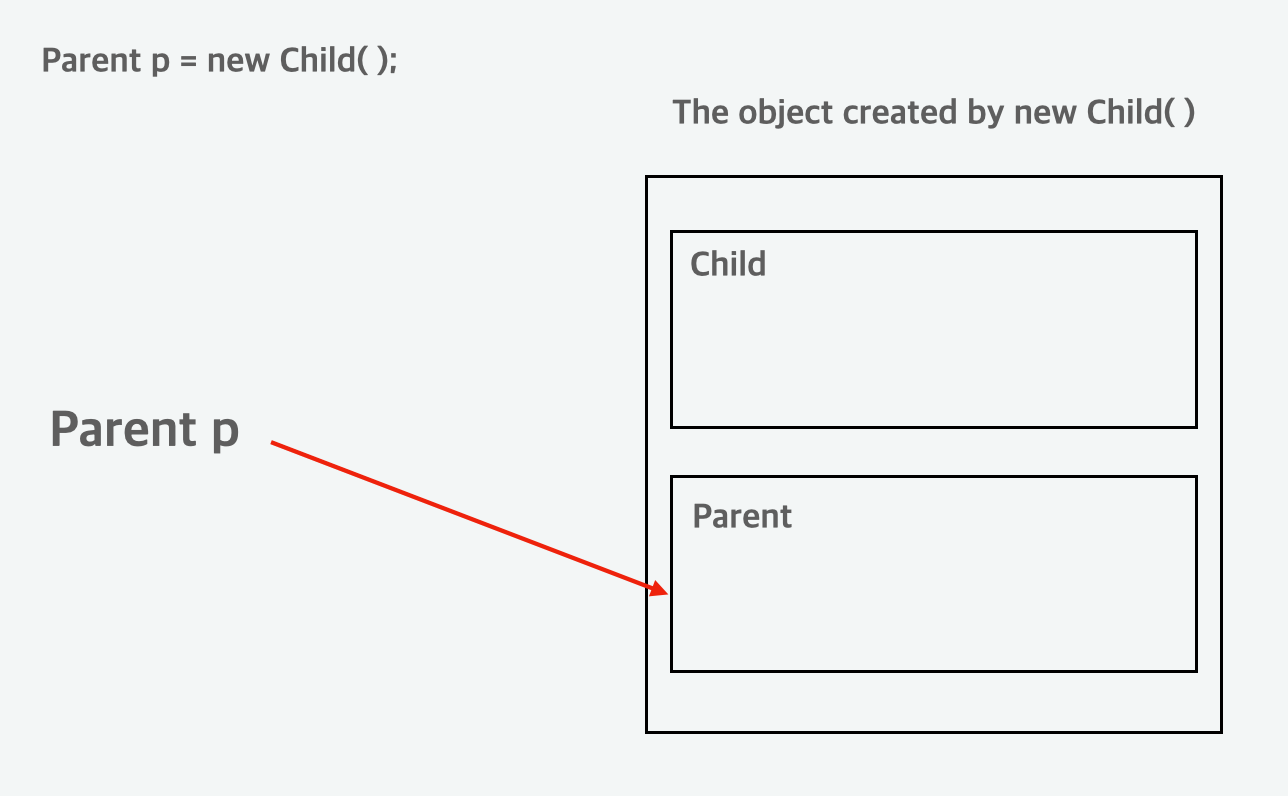
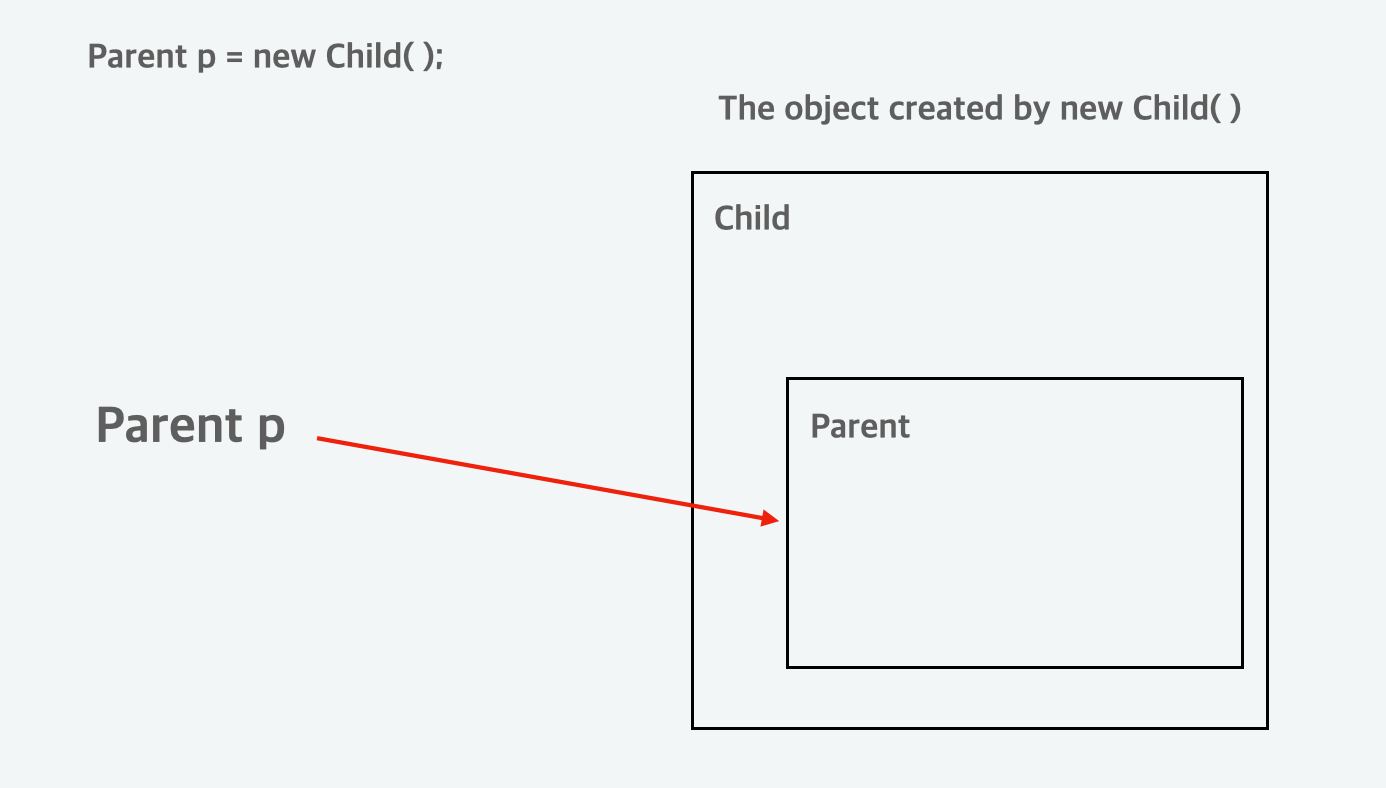
초안 작성중

diff --git a/_drafts/2022-06-12-java-type-with-polymorphism.md b/_drafts/2022-06-12-java-type-with-polymorphism.md
@@ -33,13 +33,13 @@ System.out.println(Arrays.toString(oArr));
 > The dictionary definition of polymorphism refers to a principle in biology in which an organism or species can have many different forms or stages.
 > This principle can also be applied to object-oriented programming and languages like the Java language.
   
-다형성이란 **다양한 형태를 갖을 수 있음** 그 이상도 이하도 아니다.  
+다형성이란 **"다양한 형태를 갖을 수 있는 성질"** 그 이상도 이하도 아니지만, 참 온갖 곳에서 다형성 이라는 단어를 사용한다.  
   
 매개변수의 종류와 갯수가 다르고, 접근 제한자와 이름이 같은 메서드를 여러개 정의하는 `overloading` 은 메서드 레벨에서의 다형성이다.
   
 부모 클래스를 상속받거나 혹은 인터페이스를 구현한 클래스가, 기존에 정의된 메서드의 수행방식을 재정의 하여 사용하는 `overriding` 은 클래스 레벨에서의 다형성이다.  
    
-우리는 다형성에 의해 `자녀 클래스 타입의 객체`를 `부모 클래스 변수`에 할당 할 수 있다는 것을 잘 알고 있다.   
+우리는 다형성에 의해 `자녀 타입 객체`를 `부모 타입 변수`에 할당 할 수 있다는 것을 알고 있다.   
 
 ```java
 public class InheritanceExample {
@@ -50,9 +50,14 @@ public class InheritanceExample {
     }
 }
 ```
-> Subclasses of a class can define their own unique behaviors and yet share some of the same functionality of the parent class.  
-  
+   
 변수 `p`에 담겨있는 것은 분명 `Child` 타입의 객체 인데, 왜 자녀 클래스에 정의된 기능을 수행할 수 없을까?     
+  
+```java
+Parent p = new Child();
+```
+  
+위 코드를 그림으로 나타낸다면 아래와 같이 생각 할 수 있다.   
 
 ![image.png](/assets/images/java/inheritance.png)
 
